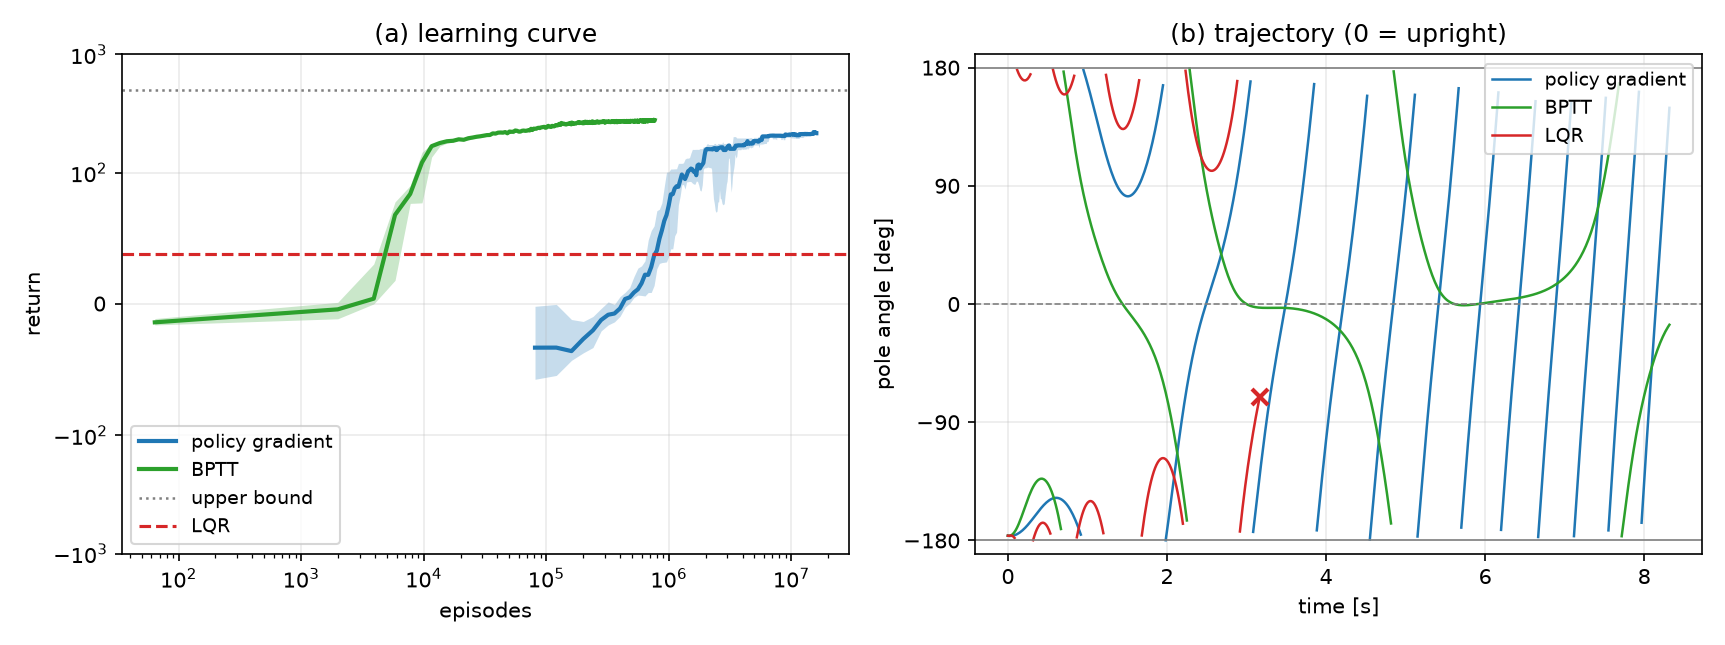
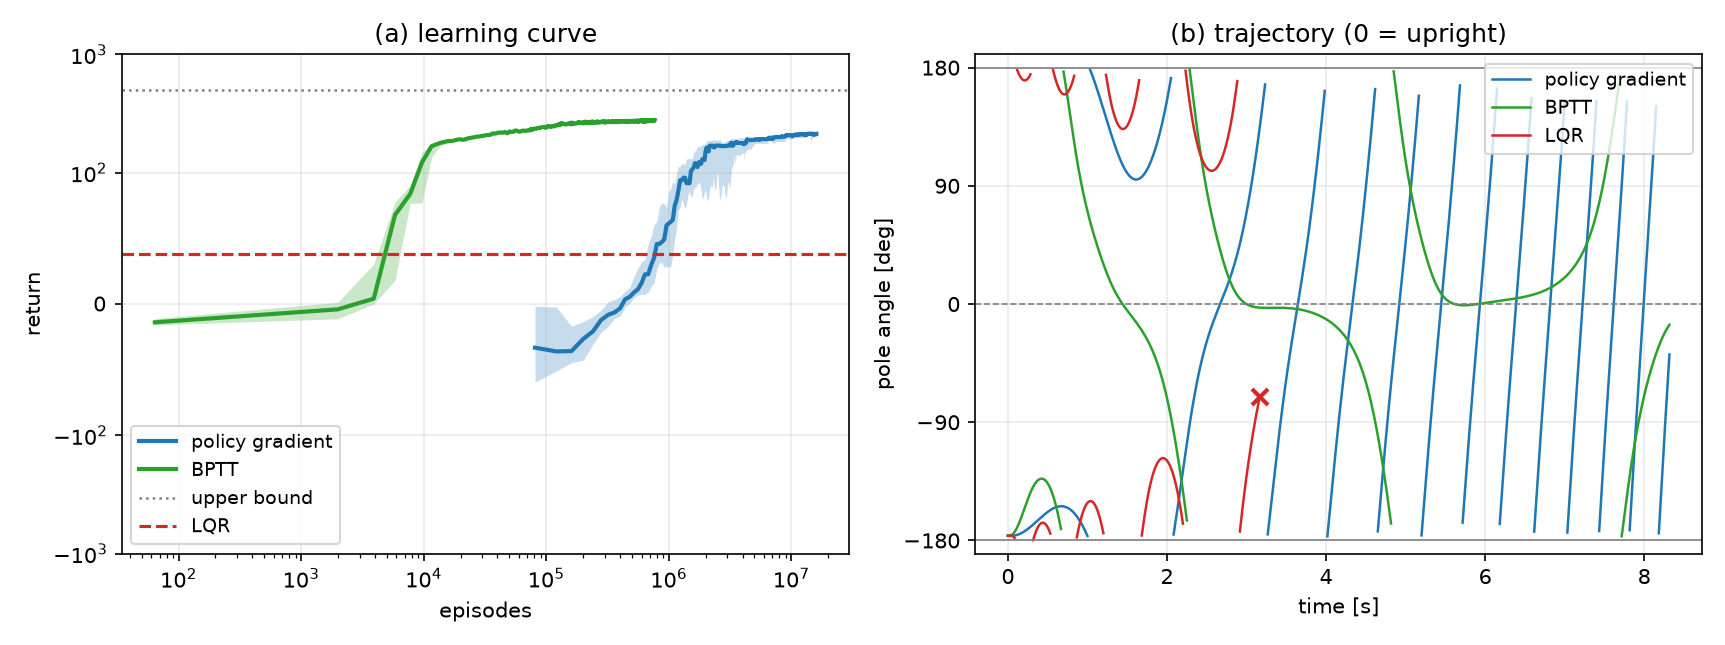
up

diff --git a/main.py b/main.py
@@ -11,8 +11,8 @@ FIG_DIR = Path(__file__).resolve().parent / "fig"
 FIG_DIR.mkdir(parents=True, exist_ok=True)
 
 SEEDS = 16                     # 試行数 (それぞれ別のseed値)
-PG_STEPS = 960_000_000         # 方策勾配法が消費する実環境ステップ数
 EVAL_STATES, EVAL_STEPS = 256, 600   # 評価: 256個の初期状態から10秒間
+PG_TRAINING = agent.TrainingConfig(total_steps=960_000_000, num_envs=4096)
 SPEC_PARAMS = env.CartPoleParams()                        # 課題指定どおりの報酬
 SHAPED_PARAMS = env.CartPoleParams(fail_penalty=-20.0)    # 終端ペナルティを加えた報酬
 WRONG_MODEL = env.CartPoleParams(fail_penalty=-20.0, pole_mass=0.5, pole_length=0.75)  # 誤った内部モデル
@@ -35,14 +35,8 @@ def save_figure(filename):
     plt.savefig(FIG_DIR / filename, dpi=150)
     plt.close()
 
-def moving_ratio(numer, denom, window):
-    """window本の移動平均. 1イテレーションあたりのエピソード数が変わるため比で計算する."""
-    kernel = np.ones(window)
-    return np.convolve(numer, kernel, "valid") / np.maximum(np.convolve(denom, kernel, "valid"), 1.0)
-
-def train_policy_gradient(params, total_steps=PG_STEPS, config=CONFIG, spec=agent.LINEAR, training=None):
+def train_policy_gradient(params, training=PG_TRAINING, config=CONFIG, spec=agent.LINEAR):
     """全seedの方策勾配法をvmapで同時に学習する"""
-    training = training or agent.TrainingConfig(total_steps=total_steps, num_envs=4096)
     run = jax.jit(jax.vmap(lambda key: agent.train_vec(params, config, training, spec, key)))
     policies, out = run(jax.random.split(jax.random.PRNGKey(0), SEEDS))
     count, returns, lengths, failures, values, improved = (np.array(value) for value in out)
@@ -63,9 +57,9 @@ def evaluate_gains(params, gains, key=jax.random.PRNGKey(7)):
     """
     x0 = env.sample_states(params, key, EVAL_STATES)
     valid = np.array(jnp.all(jnp.abs(x0) <= jnp.array(params.state_limit), axis=1))
-    lengths, returns, _ = zip(*[agent.evaluate(params, jnp.asarray(gain), key, EVAL_STATES, EVAL_STEPS)
-                                for gain in gains])
-    return np.array(lengths)[:, valid], np.array(returns)[:, valid]
+    _, alive, returns, _ = zip(*[agent.evaluate(params, agent.GAIN, jnp.asarray(gain), key,
+                                                EVAL_STATES, EVAL_STEPS) for gain in gains])
+    return np.array(alive).sum(axis=-1)[:, valid], np.array(returns)[:, valid]
 
 def report_evaluation(label, params, gains):
     lengths, returns = evaluate_gains(params, gains)
@@ -76,10 +70,14 @@ def report_evaluation(label, params, gains):
           f"return {np.median(returns.mean(axis=-1)):.2f}")
     return hold
 
-def curve(count, values, window, x_steps=None):
-    """(エピソード数または環境ステップ数, 1エピソードあたりの平均値) の学習曲線"""
-    episodes = np.cumsum(count)[window - 1:]
-    return (episodes if x_steps is None else x_steps[window - 1:]), moving_ratio(values, count, window)
+def curve(count, values, window):
+    """(エピソード数, 1エピソードあたりの平均値) の学習曲線.
+
+    1イテレーションあたりのエピソード数が変わるため, window本の移動和の比で平均を取る.
+    """
+    kernel = np.ones(window)
+    return (np.cumsum(count)[window - 1:],
+            np.convolve(values, kernel, "valid") / np.maximum(np.convolve(count, kernel, "valid"), 1.0))
 
 def aggregate(curves, points=400):
     """試行をまとめた曲線. 発散した試行があっても残りが描けるようnanを無視する."""
@@ -100,7 +98,7 @@ def plot_reward_design(spec, shaped):
     """課題指定の報酬と終端ペナルティを加えた報酬の学習曲線"""
     _, axes = plt.subplots(1, 2, figsize=(11, 4.3))
     window = spec[1].shape[1] // 2000
-    for (policies, count, returns, lengths, _, _), color, name in (
+    for (_, count, returns, lengths, _, _), color, name in (
             (spec, "tab:red", "as specified"),
             (shaped, "tab:blue", "terminal penalty")):
         band(axes[0], [curve(count[s], returns[s], window) for s in range(SEEDS)], color, name)
@@ -119,7 +117,7 @@ def plot_reward_design(spec, shaped):
 
 def plot_method_comparison(shaped, analytic, lqr_value):
     """方策勾配法とBPTTを, 消費したエピソード数に対して比較する"""
-    policies, count, _, lengths, values, _ = shaped
+    _, count, _, lengths, values, _ = shaped
     _, value_curve, length_curve, _ = analytic  # 最大化している目的関数 (割引収益) で揃える
     _, axes = plt.subplots(1, 2, figsize=(11, 4.3))
     window = count.shape[1] // 2000
@@ -156,9 +154,9 @@ def gradient_samples(params, policy, key, episodes, spec=agent.LINEAR):
 
 def plot_gradient_quality(params, policies, key=jax.random.PRNGKey(11), episodes=32768, batches=16):
     """勾配推定量の質を, 学習初期の方策と学習後の方策の2点で比較する"""
-    _, axes = plt.subplots(1, len(policies), figsize=(5.5 * len(policies), 4.3), squeeze=False)
+    _, axes = plt.subplots(1, len(policies), figsize=(5.5 * len(policies), 4.3))
     sizes = np.unique(np.geomspace(1, episodes // batches, 20).astype(int))
-    for ax, (title, policy) in zip(axes[0], policies):
+    for ax, (title, policy) in zip(axes, policies):
         pathwise, likelihood, length = gradient_samples(params, policy, key, episodes)
         # 基準方向: 標準誤差が十分小さい解析的勾配の平均を真の勾配とみなす
         reference = pathwise.mean(axis=0) / np.linalg.norm(pathwise.mean(axis=0))
@@ -167,7 +165,7 @@ def plot_gradient_quality(params, policies, key=jax.random.PRNGKey(11), episodes
             aligned = []
             for size in sizes:  # size本のエピソードから作った推定値と真の勾配方向との一致度
                 pooled = samples[: (episodes // size) * size].reshape(-1, size, 5).mean(axis=1)
-                aligned.append(np.mean(pooled @ reference / np.maximum(np.linalg.norm(pooled, axis=1), 1e-12)))
+                aligned.append(np.mean(pooled @ reference / np.linalg.norm(pooled, axis=1)))
             ax.plot(sizes, aligned, "o-", color=color, ms=4, label=name)
             error = np.linalg.norm(samples.std(axis=0) / np.sqrt(episodes)) / np.linalg.norm(samples.mean(axis=0))
             print(f"[gradient/{title}] {name}: relative std "
@@ -185,12 +183,13 @@ def plot_gradient_quality(params, policies, key=jax.random.PRNGKey(11), episodes
         ax.legend(fontsize=9, loc="lower right")
     save_figure("gradient_quality.png")
 
-def plot_trajectories(params, gains, filename="trajectories.png"):
+def plot_trajectories(params, gains):
     """学習後の各手法の軌道"""
     x0 = jnp.array([0.0, 0.0, 8.0 * jnp.pi / 180.0, 0.0])
     _, axes = plt.subplots(3, 1, figsize=(7.5, 7), sharex=True)
     for (name, gain, color) in gains:
-        states, _, dones = (np.array(v) for v in agent.rollout_linear(params, jnp.asarray(gain), x0, EVAL_STEPS))
+        states, _, dones = (np.array(v) for v in
+                            agent.rollout(params, agent.GAIN, jnp.asarray(gain), x0, EVAL_STEPS))
         end = np.argmax(dones) + 1 if dones.any() else len(dones)
         t = np.arange(end) * params.dt
         axes[0].plot(t, np.rad2deg(states[:end, 2]), color=color, label=name)
@@ -207,7 +206,7 @@ def plot_trajectories(params, gains, filename="trajectories.png"):
     axes[0].legend(fontsize=9)
     for ax in axes:
         ax.grid(alpha=0.25)
-    save_figure(filename)
+    save_figure("trajectories.png")
 
 def best_policy(policies, hold):
     """代表として, 評価で最も長く維持できたseedの方策を返す"""
@@ -221,7 +220,7 @@ def report_swingup(label, params, policies, spec=SWINGUP_SPEC):
     """swing-up方策を評価し, 収益・倒立到達時刻・終盤の倒立滞在率を出力する"""
     returns, residency, rotations = [], [], []
     for policy in policies:
-        states, episode_return, alive = agent.evaluate_policy(
+        states, alive, episode_return, _ = agent.evaluate(
             params, spec, jnp.asarray(policy), jax.random.PRNGKey(5), 64, SWINGUP_STEPS)
         states, alive = np.array(states), np.array(alive)
         upright = (np.abs(states[:, :, 2]) < params.state_limit[2]) & alive
@@ -231,12 +230,11 @@ def report_swingup(label, params, policies, spec=SWINGUP_SPEC):
         unwrapped = np.unwrap(np.nan_to_num(states[:, :, 2], nan=0.0, posinf=0.0, neginf=0.0), axis=1)
         rotations.append(float(np.median(np.abs(unwrapped[:, -1] - unwrapped[:, 150]) / (2.0 * np.pi))))
     returns, residency, rotations = np.array(returns), np.array(residency), np.array(rotations)
-    finite = np.isfinite(returns)
-    mean_return = float(np.mean(returns[finite])) if finite.any() else np.nan
-    std_return = float(np.std(returns[finite])) if finite.any() else np.nan
-    print(f"[{label}] return {mean_return:.1f} +/- {std_return:.1f} (mean +/- std over finite seeds), "
+    finite = np.isfinite(returns)   # 発散した試行は統計から除く
+    mean_return = float(np.mean(returns[finite]))
+    print(f"[{label}] return {mean_return:.1f} +/- {np.std(returns[finite]):.1f} (mean +/- std over finite seeds), "
           f"upright residency {np.mean(residency):.2f} +/- {np.std(residency):.2f}, "
-          f"rotations {np.median(rotations[finite]) if finite.any() else np.nan:.2f}, "
+          f"rotations {np.median(rotations[finite]):.2f}, "
           f"finite seeds {finite.sum()}/{len(returns)}, "
           f"success (residency > 0.9) {np.mean(residency > 0.9):.0%}")
     return residency, mean_return
@@ -263,7 +261,7 @@ def plot_swingup(pg, analytic, policies, lqr_return):
     # 評価と同じ初期状態分布からサンプルした1点を用いる (分布の平均は角速度0の特異点のため)
     x0 = env.sample_states(SWINGUP_PARAMS, jax.random.PRNGKey(5), 1)[0]
     for name, policy, spec, color in policies:  # 角度は [-180, 180] 度へ折り返して描く
-        states, _, dones = agent.rollout_policy(SWINGUP_PARAMS, spec, jnp.asarray(policy), x0, SWINGUP_STEPS)
+        states, _, dones = agent.rollout(SWINGUP_PARAMS, spec, jnp.asarray(policy), x0, SWINGUP_STEPS)
         states, dones = np.array(states), np.array(dones)
         end = int(np.argmax(dones)) + 1 if dones.any() else SWINGUP_STEPS   # 終端後は描かない
         raw = states[:end, 2]
@@ -299,7 +297,6 @@ if __name__ == "__main__":
         best = agent.search_linear_gain(params, CONFIG, jax.random.PRNGKey(0))
         print(f"[CEM/{label}] best linear gain {np.array2string(np.array(best), precision=2)}")
         report_evaluation(f"CEM/{label}", params, [best])
-        report_evaluation(f"zero-gain/{label}", params, [jnp.zeros(4)])
         report_evaluation(f"LQR/{label}", params, [lqr])
 
     spec = train_policy_gradient(SPEC_PARAMS)
@@ -307,22 +304,21 @@ if __name__ == "__main__":
     for label, (policies, count, _, _, _, improved), params in (
             ("PG/as specified", spec, SPEC_PARAMS), ("PG/terminal penalty", shaped, SHAPED_PARAMS)):
         print(f"[{label}] {count.sum(-1).mean():.0f} episodes, {improved.sum(-1).mean():.0f} policy updates")
-        hold = report_evaluation(label, params, [agent.feedback_gain(jnp.asarray(p)) for p in policies])
-    report_evaluation("LQR", SHAPED_PARAMS, [lqr])
+        # ループを抜けた時点の pg_hold は終端ペナルティありの結果であり, 以降の代表方策の選択に使う
+        pg_hold = report_evaluation(label, params, [agent.feedback_gain(jnp.asarray(p)) for p in policies])
     plot_reward_design(spec, shaped)
 
     # --- BPTTによる解析的方策勾配 ---
     analytic = train_analytic(SHAPED_PARAMS)
-    analytic_gains = [agent.feedback_gain(jnp.asarray(p)) for p in analytic[0]]
-    analytic_hold = report_evaluation("BPTT", SHAPED_PARAMS, analytic_gains)
+    analytic_hold = report_evaluation("BPTT", SHAPED_PARAMS,
+                                      [agent.feedback_gain(jnp.asarray(p)) for p in analytic[0]])
     # 学習曲線と同じ条件 (200ステップ, 終端ペナルティなし) でLQRの収益を測る
-    lqr_return = float(np.mean(agent.evaluate(SHAPED_PARAMS, lqr, jax.random.PRNGKey(7),
-                                              EVAL_STATES, BPTT.horizon, CONFIG.gamma)[2]))
+    lqr_return = float(np.mean(agent.evaluate(SHAPED_PARAMS, agent.GAIN, lqr, jax.random.PRNGKey(7),
+                                              EVAL_STATES, BPTT.horizon, CONFIG.gamma)[3]))
     print(f"[LQR] discounted return over {BPTT.horizon} steps: {lqr_return:.3f}")
     plot_method_comparison(shaped, analytic, lqr_return)
 
-    pg_policies, pg_hold = shaped[0], report_evaluation("PG (final)", SHAPED_PARAMS,
-                                                        [agent.feedback_gain(jnp.asarray(p)) for p in shaped[0]])
+    pg_policies = shaped[0]
     print("PG gain    :", np.array2string(np.array(agent.feedback_gain(best_policy(pg_policies, pg_hold))), precision=3))
     print("BPTT gain  :", np.array2string(np.array(agent.feedback_gain(best_policy(analytic[0], analytic_hold))), precision=3))
     plot_gradient_quality(SHAPED_PARAMS, [
@@ -340,8 +336,7 @@ if __name__ == "__main__":
     report_evaluation("LQR (wrong model)", SHAPED_PARAMS, [agent.lqr_gain(WRONG_MODEL, CONFIG)])
 
     # --- 5章: swing-up課題 ---
-    swing_pg = train_policy_gradient(SWINGUP_PARAMS, SWINGUP_TRAINING.total_steps,
-                                     SWINGUP_CONFIG, SWINGUP_SPEC, SWINGUP_TRAINING)
+    swing_pg = train_policy_gradient(SWINGUP_PARAMS, SWINGUP_TRAINING, SWINGUP_CONFIG, SWINGUP_SPEC)
     print(f"[swingup/PG] {swing_pg[1].sum(-1).mean():.0f} episodes, {swing_pg[5].sum(-1).mean():.0f} policy updates")
     pg_residency, _ = report_swingup("swingup/PG", SWINGUP_PARAMS, swing_pg[0])
     swing_bptt = train_analytic(SWINGUP_PARAMS, SWINGUP_BPTT, SWINGUP_CONFIG, SWINGUP_SPEC)

diff --git a/agent.py b/agent.py
@@ -13,7 +13,7 @@ class AgentConfig(NamedTuple):
     alpha: float = 0.1         # 学習率
     angle_tol: float = 3e-3    # 方策改善を行うか判定する勾配推定値の角度基準 [rad]
     sigma_offset: float = 0.1  # sigma = 0.1 + 1/(1 + exp(eta))
-    clip: float = 0.0          # 方策勾配のノルムの上限 (0なら制限しない)
+    clip: float = 3.0          # 方策勾配のノルムの上限
 
 class TrainingConfig(NamedTuple):
     total_steps: int              # 実環境で消費するステップ数
@@ -40,13 +40,15 @@ class PolicySpec(NamedTuple):
     rbf_rate: int = 0    # 角速度方向のRBF中心の数
     rate_limit: float = 8.0  # 角速度方向にRBFを張る範囲 [rad/s]
     init_scale: float = 5.0  # theta ~ U[-init_scale, init_scale] (課題指定は5)
+    normalize: bool = True   # Falseなら phi(s) = s. 状態フィードバック a = k's をこの形で扱う
 
 LINEAR = PolicySpec()
+GAIN = PolicySpec(normalize=False)  # theta をそのままゲイン k とみなす方策 (LQRなどの比較用)
 
 def feature_vector(spec: PolicySpec, state: jnp.ndarray) -> jnp.ndarray:
     """方策への入力 phi(s). 課題指定の設定では C s そのものである."""
     if spec.rbf_angle == 0:
-        return NORMALIZER * state
+        return NORMALIZER * state if spec.normalize else state
     y, y_dot = state[2], state[3]
     # 角度は周期的なので cos(y - c) に基づくRBFを用いる. 幅は中心の間隔に合わせる.
     centers = jnp.linspace(-jnp.pi, jnp.pi, spec.rbf_angle, endpoint=False)
@@ -88,16 +90,9 @@ def feedback_gain(policy: jnp.ndarray) -> jnp.ndarray:
 def action_std(config: AgentConfig, policy: jnp.ndarray):
     return config.sigma_offset + jax.nn.sigmoid(-policy[-1])  # 1/(1+exp(eta))
 
-def log_prob(config: AgentConfig, spec: PolicySpec, policy: jnp.ndarray, state: jnp.ndarray, action):
-    """ガウス方策の対数尤度 ln pi(a|s; theta, eta)"""
-    std = action_std(config, policy)
-    return -0.5 * jnp.log(2.0 * jnp.pi * std**2) - 0.5 * ((action - mean_action(spec, policy, state)) / std) ** 2
-
-score = jax.grad(log_prob, argnums=2)  # [grad_theta ln pi, grad_eta ln pi]
-
 def scores(config: AgentConfig, spec: PolicySpec, policy: jnp.ndarray,
            states: jnp.ndarray, actions: jnp.ndarray):
-    """全レーンのscore (解析形. jax.gradと一致することを確認している)."""
+    """全レーンのscore grad ln pi(a|s; theta, eta) (解析形. jax.gradと一致することを確認している)."""
     std = action_std(config, policy)
     phi = jax.vmap(feature_vector, in_axes=(None, 0))(spec, states)
     residual = (actions - phi @ policy[:phi.shape[1]]) / std**2
@@ -152,8 +147,7 @@ def train_vec(params: env.CartPoleParams, config: AgentConfig, training: Trainin
         improve = (count > 0) & (n >= 2.0) & (angle < config.angle_tol)
         # 勾配ノルムの上限. deltaの分布は裾が重く, 稀に外れ値がDeltaを支配して通常の
         # 数百倍の更新が入り学習が発散するため, 更新の大きさを制限する.
-        scale = 1.0 if config.clip <= 0.0 else jnp.minimum(
-            1.0, config.clip / jnp.maximum(jnp.linalg.norm(delta_new), 1e-12))
+        scale = jnp.minimum(1.0, config.clip / jnp.maximum(jnp.linalg.norm(delta_new), 1e-12))
         policy = policy + jnp.where(improve, config.alpha * scale, 0.0) * delta_new
         n = jnp.where(improve, 1.0, jnp.where(count > 0, n + 1.0, n))
 
@@ -241,22 +235,23 @@ def train_bptt(model: env.CartPoleParams, config: AgentConfig, bptt: BpttConfig,
     (policy, _), out = jax.lax.scan(scan_step, (init_policy(spec, key_policy), key), None, length=bptt.updates)
     return policy, out  # 方策と (割引収益, エピソード長, 終端ペナルティを除いた収益) の推移
 
-@partial(jax.jit, static_argnums=(0, 3))
-def rollout_linear(params: env.CartPoleParams, gain: jnp.ndarray, x0: jnp.ndarray, steps: int = 3000):
-    """状態フィードバック a = k's による軌道. 学習した方策の平均もLQRもこの形をとる."""
+@partial(jax.jit, static_argnums=(0, 1, 4))
+def rollout(params: env.CartPoleParams, spec: PolicySpec, policy: jnp.ndarray,
+            x0: jnp.ndarray, steps: int):
+    """方策の平均 mu(s) を用いた決定論的な軌道. spec = GAIN なら状態フィードバック a = k's になる."""
     def body(state, _):
-        next_state, reward, done = env.step(params, state, jnp.dot(gain, state))
+        next_state, reward, done = env.step(params, state, mean_action(spec, policy, state))
         return next_state, (state, reward, done)
     return jax.lax.scan(body, x0, None, length=steps)[1]
 
-@partial(jax.jit, static_argnums=(0, 3, 4))
-def evaluate(params: env.CartPoleParams, gain: jnp.ndarray, key: jax.Array,
-             num_states: int = 256, steps: int = 1000, gamma: float = 1.0):
-    """初期状態分布から決定論的方策を評価し, 維持ステップ数・累積報酬・割引収益を返す"""
+@partial(jax.jit, static_argnums=(0, 1, 4, 5))
+def evaluate(params: env.CartPoleParams, spec: PolicySpec, policy: jnp.ndarray, key: jax.Array,
+             num_states: int, steps: int, gamma: float = 1.0):
+    """初期状態分布から決定論的方策を評価し, 状態列・生存フラグ・累積報酬・割引収益を返す"""
     x0 = env.sample_states(params, key, num_states)
-    _, rewards, dones = jax.vmap(lambda state: rollout_linear(params, gain, state, steps))(x0)
+    states, rewards, dones = jax.vmap(lambda state: rollout(params, spec, policy, state, steps))(x0)
     alive = jnp.cumsum(dones, axis=1) - dones == 0  # 終端した時点までを評価対象とする
-    return (jnp.sum(alive, axis=1), jnp.sum(jnp.where(alive, rewards, 0.0), axis=1),
+    return (states, alive, jnp.sum(jnp.where(alive, rewards, 0.0), axis=1),
             jnp.sum(jnp.where(alive, rewards * gamma ** jnp.arange(steps), 0.0), axis=1))
 
 def search_linear_gain(params: env.CartPoleParams, config: AgentConfig, key: jax.Array,
@@ -270,7 +265,7 @@ def search_linear_gain(params: env.CartPoleParams, config: AgentConfig, key: jax
     discount = config.gamma ** jnp.arange(steps)
 
     def value(gain, state):
-        _, rewards, dones = rollout_linear(params, gain, state, steps)
+        _, rewards, dones = rollout(params, GAIN, gain, state, steps)
         alive = jnp.cumsum(dones) - dones == 0
         return jnp.sum(jnp.where(alive, rewards * discount, 0.0))
 
@@ -282,24 +277,6 @@ def search_linear_gain(params: env.CartPoleParams, config: AgentConfig, key: jax
         best = pool[jnp.argsort(score(pool))[-elite:]]
         mean, std = best.mean(axis=0), best.std(axis=0) + 1e-3
     return mean
-
-@partial(jax.jit, static_argnums=(0, 1, 4))
-def rollout_policy(params: env.CartPoleParams, spec: PolicySpec, policy: jnp.ndarray,
-                   x0: jnp.ndarray, steps: int = 500):
-    """方策の平均 mu(s) を用いた決定論的な軌道"""
-    def body(state, _):
-        next_state, reward, done = env.step(params, state, mean_action(spec, policy, state))
-        return next_state, (state, reward, done)
-    return jax.lax.scan(body, x0, None, length=steps)[1]
-
-@partial(jax.jit, static_argnums=(0, 1, 4, 5))
-def evaluate_policy(params: env.CartPoleParams, spec: PolicySpec, policy: jnp.ndarray,
-                    key: jax.Array, num_states: int = 256, steps: int = 500):
-    """初期状態分布から決定論的方策を評価し, 各試行の状態列と累積報酬を返す"""
-    x0 = env.sample_states(params, key, num_states)
-    states, rewards, dones = jax.vmap(lambda state: rollout_policy(params, spec, policy, state, steps))(x0)
-    alive = jnp.cumsum(dones, axis=1) - dones == 0
-    return states, jnp.sum(jnp.where(alive, rewards, 0.0), axis=1), alive
 
 def linearize(params: env.CartPoleParams):
     """直立平衡点まわりで線形化し, 時定数tauで離散化した状態方程式を返す (摩擦は無視する)"""
